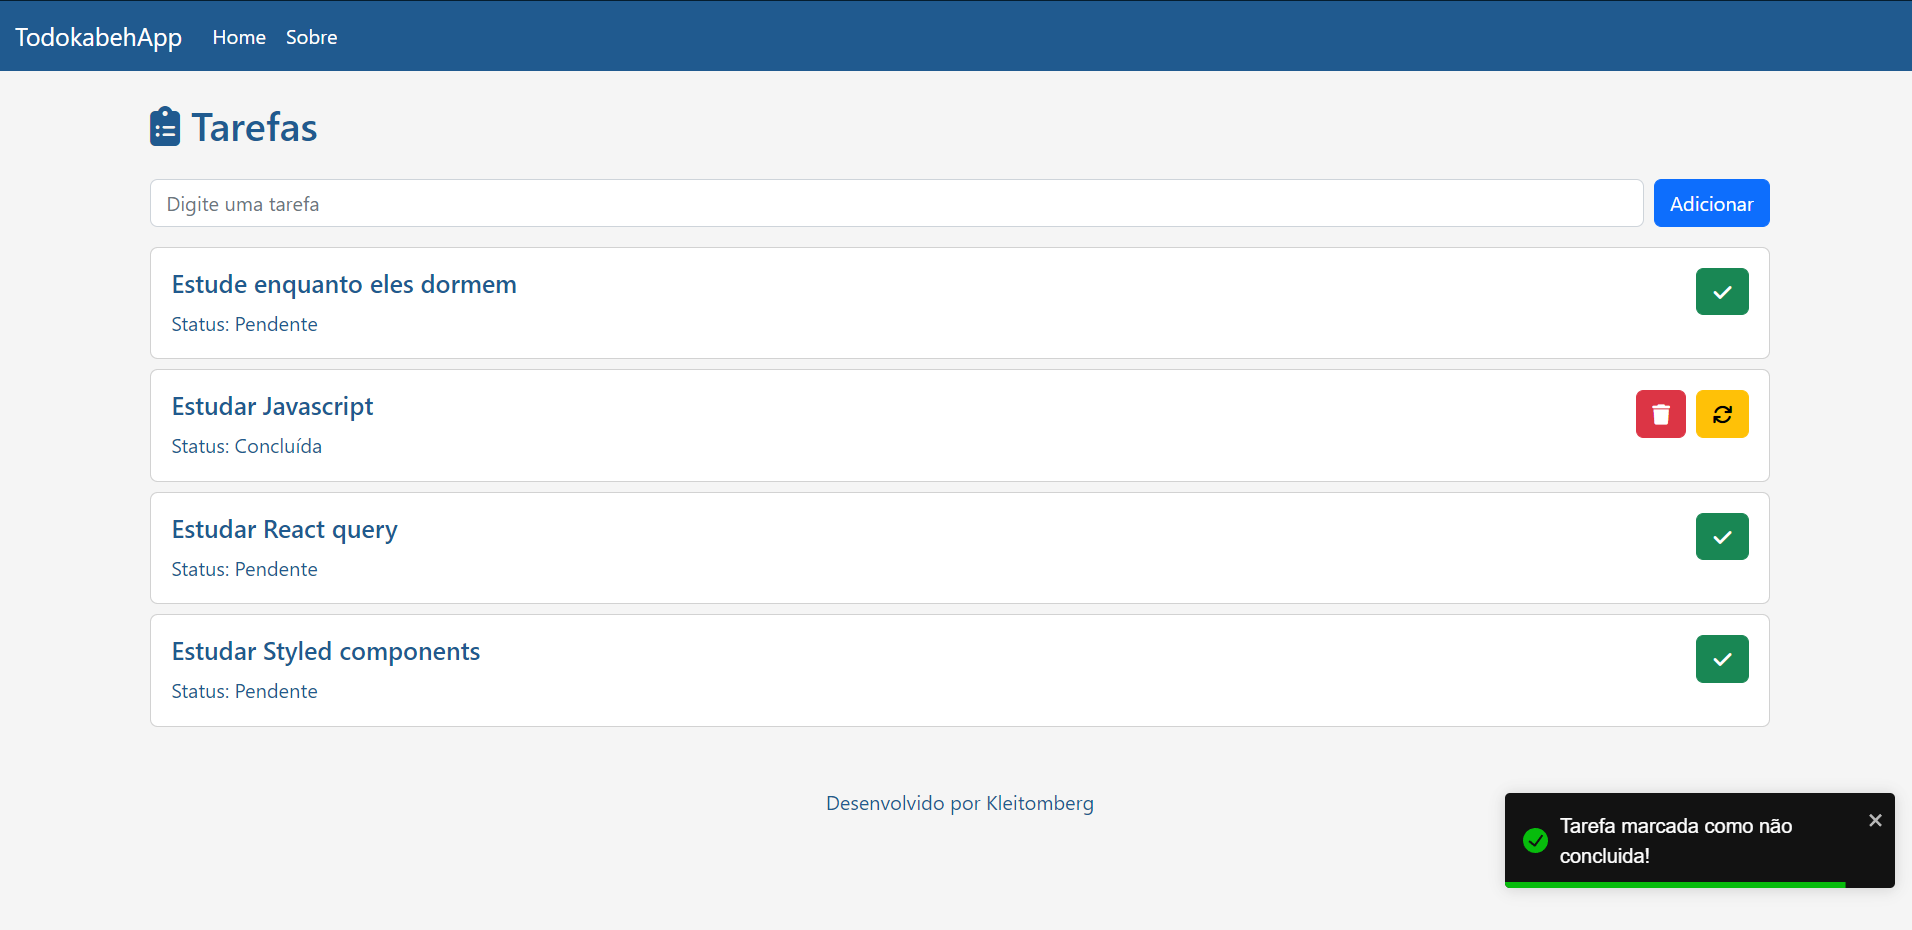
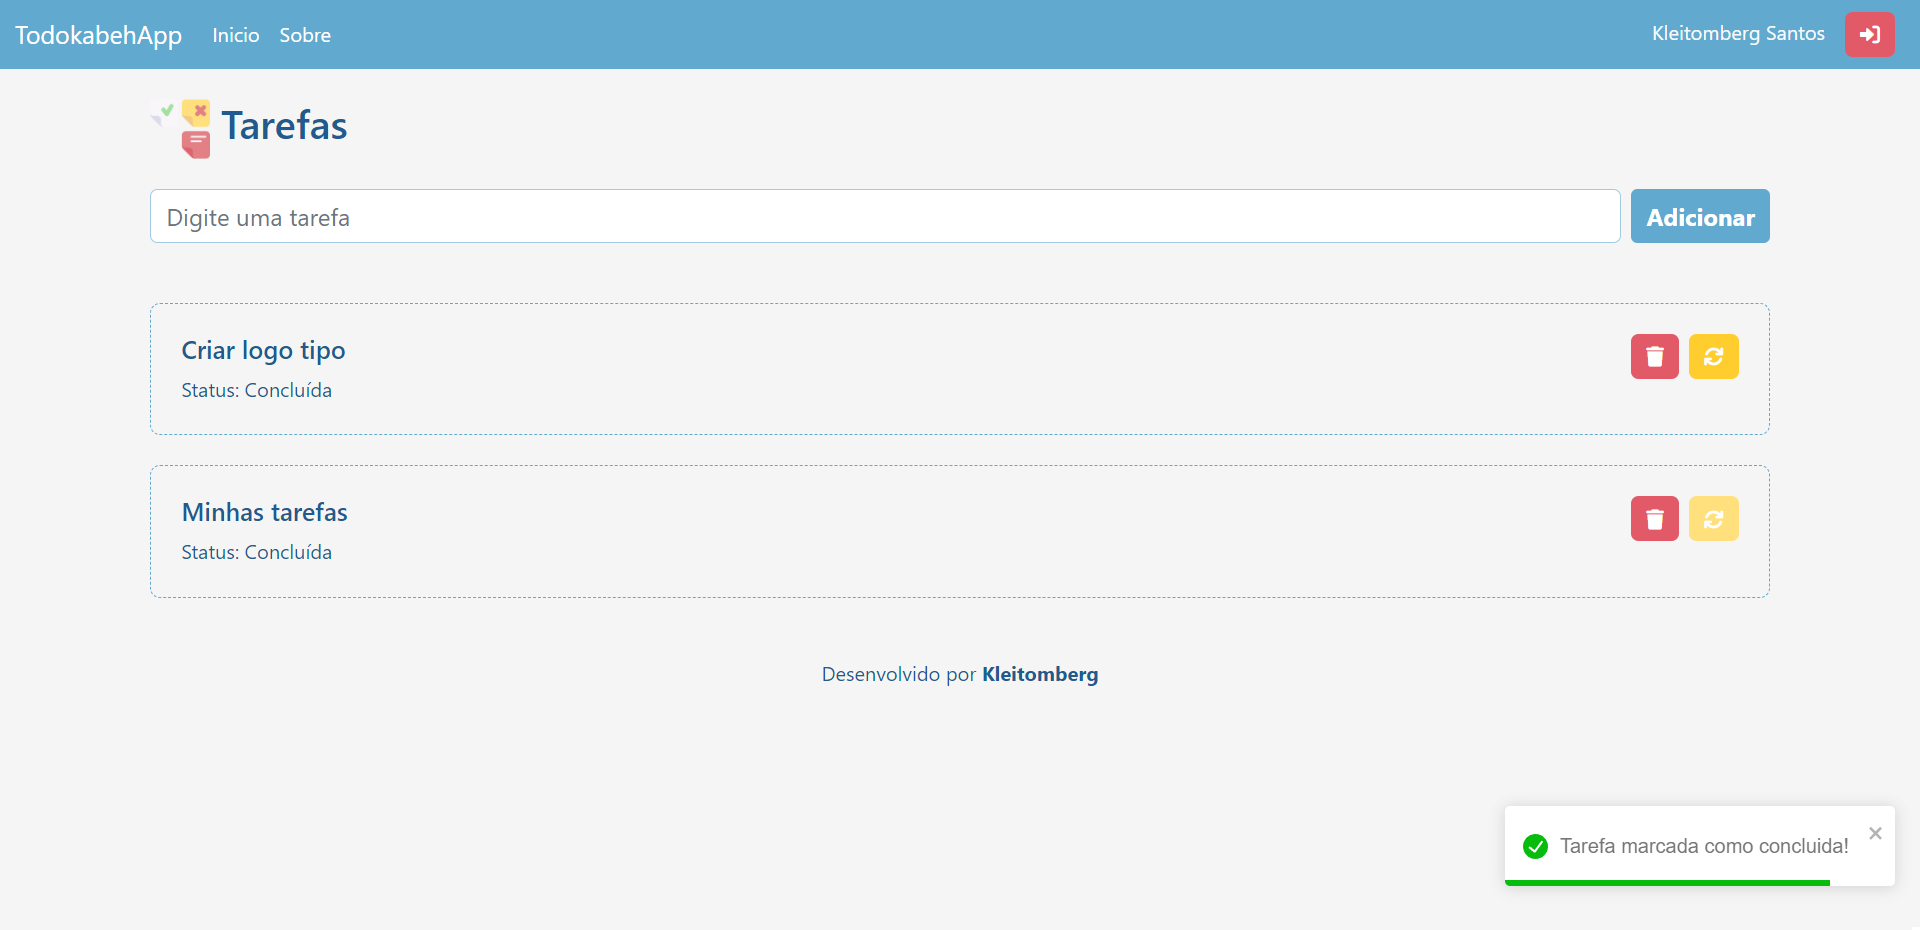
theme toastify

diff --git a/src/pages/home/Home.jsx b/src/pages/home/Home.jsx
@@ -101,7 +101,7 @@ export default function Home() {
                 pauseOnHover: true,
                 draggable: true,
                 progress: undefined,
-                theme: "dark",
+                theme: "light",
 
             })
             })
@@ -130,7 +130,7 @@ export default function Home() {
                 pauseOnHover: true,
                 draggable: true,
                 progress: undefined,
-                theme: "dark",
+                theme: "light",
             })
             })
             .catch((error) => {
@@ -142,7 +142,7 @@ export default function Home() {
                     pauseOnHover: true,
                     draggable: true,
                     progress: undefined,
-                    theme: "dark",
+                    theme: "light",
             })
             })
         }
